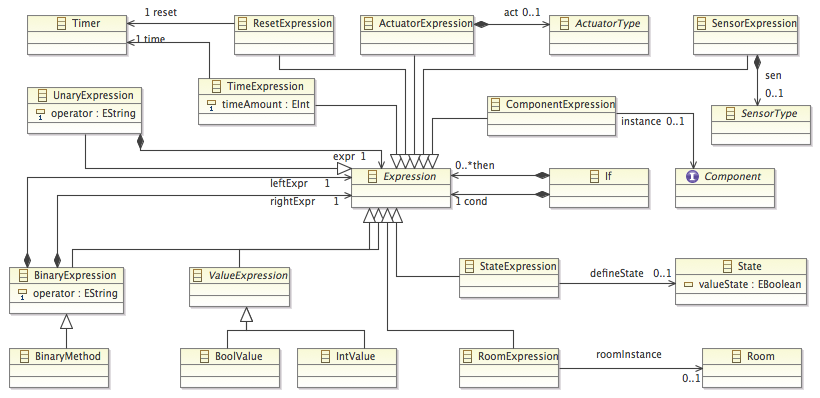
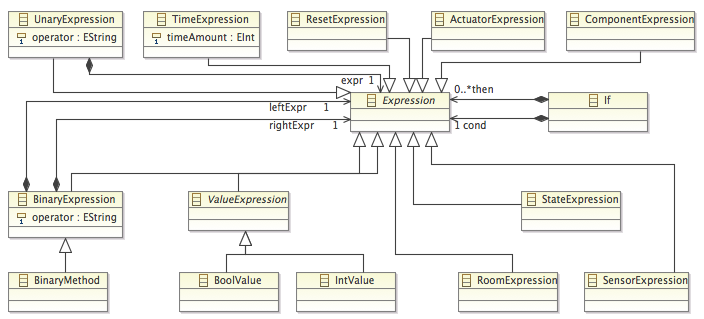
Section 3, 4 & 5
ecore diagram updated: policy definition
dsl updtated: policy definition

diff --git a/documents/sections/designAndDevelopment.tex b/documents/sections/designAndDevelopment.tex
@@ -1,9 +1,13 @@
-By using Eclipse~\cite{eclipse}, EMF~\cite{emf} and Xtext~\cite{xtext} we built a domain specific language that is rich enough to express the policies discovered in the analysis. We developed a grammar that is based on our programming experience, and believed to have a consistent forthcoming syntax and conceptual constructs. Finally, we used our Policy Engine DSL editor to write the policies.
+In this section, we focus on 2 points; Our meat-model being of considerable size, explaining it as separate core packages, gives a better understanding and overview of the complete model. Secondly, we explain the key concepts behind the definition of policies.
+ 
+By using Eclipse~\cite{eclipse}, EMF~\cite{emf} and Xtext~\cite{xtext} we built a domain specific language that is rich enough to express the policies discovered in the analysis. We developed a grammar that is based on our programming experience, and believed to have a consistent forthcoming syntax and conceptual constructs. Finally, we used our Policy Engine DSL editor to specify buildings and write the policies. The full DSL implementation based on two of the interviews, one for Br\"{u}el \& Kj\ae r (see Figure \nameref{app:bogk}) and one for K\o benhavns Tekniske Skole (see Figure \nameref{app:kts}). Please note that they are fully working implementations running in Eclipse.
 
-Our model is of considerable size, and consists of the following core packages, differentiated in separate Ecore Diagrams (can be viewed in full in \nameref{sec:appendix-a}); 9 sensors classes and 6 actuators classes (see Figure \ref{fig:ecore-sensors-actuators}), 6 expression language classes (see \ref{fig:ecore-expression-language}), 5 building definition classes (see Figure \ref{fig:ecore-building-definition}) and 10 policy definition classes (see Figure \ref{fig:ecore-policy-definition}).
+\subsection{Meta-Models}
 
-We have included the full DSL implementation based on two of the interviews, one for Br\"{u}el \& Kj\ae r (see  \nameref{app:bogk}) and one for K\o benhavns Tekniske Skole (see \nameref{app:kts}). Please note that they are fully working implementations running in Eclipse..
+The following core packages, differentiated in separate Ecore Diagrams (can be viewed in full in \nameref{app:a-metamodel}); 9 sensors classes and 6 actuators classes (see Figure \ref{fig:ecore-sensors-actuators}), 14 expression language classes (see Figure \ref{fig:ecore-expression-language}), 4 building definition classes (see Figure \ref{fig:ecore-building-definition}) and 10 policy definition classes (see Figure \ref{fig:ecore-policy-definition}).
 
+\subsubsection{Sensors and Actuators}
+in our metamodel and used in our DSL are from the combined analysis of the interview mentioned in the section above. Sensor and Actuator class inherit from NamedElement, giving declared elements a name than can be later referenced in the expression language.
 \begin{figure}[h]
 	\centering
     \includegraphics[scale=0.37]{ecore-sensors-actuators.png} 
@@ -11,8 +15,8 @@ We have included the full DSL implementation based on two of the interviews, one
 	\label{fig:ecore-sensors-actuators}
 \end{figure}
 
-\subsection{Expression language}
-After the analysis of the interviews we concluded that the needed expression language needed not to be very advanced. We need boolean variables (\textit{states}), and if-statements with two different types of conditions; the normal if-statement and the one that operates on a timer (see Figure \ref{fig:dsl-conditionalexpression}). 
+\subsubsection{Expression language}
+After the analysis of the interviews we concluded that the needed expression language did not need to be very advanced. We needed boolean variables (\textit{states}) and if-statements with two different types of conditions; the normal if-statement, which operates on sensor types and state instances. The other one operates on a timer (see Figure \ref{fig:dsl-conditionalexpression}). In the body of the if-statement, we can use expression to reset timers, and set actuators using instances in specific rooms as shown in the DSL example \ref{fig:dsl-policy-definition}
 
 \begin{figure}[h]
   \centering
@@ -21,46 +25,33 @@ After the analysis of the interviews we concluded that the needed expression lan
 	\label{fig:ecore-expression-language}
 \end{figure}
 
-\pagebreak
-\subsection{Building definition}
-In order to specify the building(s) with all their floors and rooms, the core classes has been included in Figure ref{fig:ecore-building-definition}. They all inherit from NamedElement, making it possible to give them a name than can be used for later referencing.
-\begin{figure}
+\subsubsection{Building definition}
+In order to specify the building(s) with all their floors and rooms, the core classes has been included in Figure \ref{fig:ecore-building-definition}. They all inherit from NamedElement, making it possible to give them a name than can be used for later referencing.
+\begin{figure}[h]
   \centering \includegraphics[scale=0.4]{ecore-building-definition.png}  
 	\caption{The metamodel related to the \textit{building definition}. The inherited class NamedElement has been omitted.}
 	\label{fig:ecore-building-definition}
 \end{figure}
-
-\subsection{Policy definition}
-
-\begin{figure}
+\subsubsection{Policy definition}
+In the policy definition metamodel below, to define a policy, we make use of actuator and sensor types, and use room instances. The implementation of the policy is enhanced by the use of statements; if, state and timer. the if-statement uses the expression language to define behaviour. These policy can also be run following a defined schedule as shown in the dsl example of room-type in figure \ref{fig:room-types} 
+\begin{figure}[h]
   \centering
-    \includegraphics[scale=0.3]{ecore-policy-definition.png}	
-	\caption{The metamodel related to the \textit{policy definition}. The inherited class NamedElement has been omitted.}
+    \includegraphics[width=10cm]{ecore-policy-definition.png}	
+	\caption{The metamodel related to the \textit{policy definition}.}
 	\label{fig:ecore-policy-definition}
 \end{figure}
 
-\pagebreak
-There are several extra classes, consisting of subsystems that can be implemented in future work.
+There are several extra classes, consisting of subsystems that can be implemented in section \ref{subsec:futureWork}.
 
-During the analysis of the interviews, different meta-constructs were defined. It was evident that the below three key concepts were needed in order to tailor the policies for the interviewees using the DSL;
+\subsection{Key Concepts}
 
+During the analysis of the interviews, different meta-constructs were defined. It was evident that the three key concepts below were needed in order to tailor the policies for the interviewees using the DSL;
+
+\subsubsection{Time}\label{subsec:time}
+Time has to be an integral part of the DSL, and not just related with the internal policy logic. Several interviewees mention concepts like weekdays, weekends, normal working hours, holidays, night, day, morning etc., which clearly shows that Time is necessary. We have extrapolated the need for Time in two different cases;
 \begin{enumerate}
-	\item \textit{Time}. Time has to be an integral part of the DSL, and not just related with the internal policy logic. Several interviewees mention concepts like weekdays, weekends, normal working hours, holidays, night, day, morning etc.
-	
-	\item \textit{Building specification}. It should be possible to define the buildings, their floors, number and types of rooms etc.
-
-	\item \textit{Policy}. The actual behavior, ie. adjusting actuators based on sensor input, needs to be defined. 
-\end{enumerate}
-
-\subsection{Time}\label{subsec:time}
-The analysis of the interviews clearly shows that Time is necessary. We have extrapolated the need for Time in two different cases;
-	\begin{enumerate}
-		\item Time conditional expression - an expression used for determining the flow of a behavior.
-		\item Schedules - types that define a timespan which can later be attached to a specific behavior.
-	\end{enumerate}
-
-\subsubsection{Time conditional expression}\label{subsubsec:conditionalexpression}
-A \textit{time conditional expression} is an `if' statement that can react based on a built-in timer function. 
+	\item Time conditional expression\label{subsubsec:conditionalexpression}
+A \textit{time conditional expression} is an expression used for determining the flow of a behavior. It is an `if' statement that can react based on a built-in timer function. 
 
 \begin{figure}
   \centering
@@ -69,9 +60,8 @@ A \textit{time conditional expression} is an `if' statement that can react based
 	\label{fig:dsl-conditionalexpression}
 \end{figure}
 
-\newpage
-\subsubsection{Schedules}\label{subsubsec:schedules}
-\textit{Schedules} are predefined types representing a timespan where action or no-action takes place. Note that by defining several The \textit{schedules}, it is possible both to make schedules than can overlap in time, but also policies that takes over when other policies reach their end. 
+\item Schedules\label{subsubsec:schedules}
+\textit{Schedules} are predefined types representing a timespan, which can later be attached to a specific behavior where action or no-action takes place. Note that by defining several The \textit{schedules}, it is possible both to make schedules than can overlap in time, but also policies that takes over when other policies reach their end. 
 
 \begin{figure}
   \centering
@@ -79,8 +69,8 @@ A \textit{time conditional expression} is an `if' statement that can react based
   \caption{An example of a \textit{schedule} defined for a interviewee.}
   \label{fig:dsl-schedules}
 \end{figure}
-
-\subsection{Building specification}\label{subsec:buildingspecification}
+\end{enumerate}
+\subsubsection{Building specification}\label{subsec:buildingspecification}
 Rooms and room types are part of the complete building specification, with terminology rooted in concepts revolving around buildings, ie. rooms, room types, floors, different sensors and actuators. \\
 
 To avoid confusing the DSL user with an overwhelming amount of declarations of rooms, sensors and actuators - we have designed \textit{room types} that declare static use of sensors and actuators. Independent rooms that stick out from the crown can still be defined on an instance level.
@@ -92,7 +82,7 @@ To avoid confusing the DSL user with an overwhelming amount of declarations of r
 	\label{fig:room-types}
 \end{figure}
 
-Building specification as in the example below, helps us map out the actual buildings as they are in our DSL. With this we are able to accurately define exact locations for sensors and actuators as well as implement policies for rooms in specific locations. 
+Building specification as in the example above, helps us map out the actual buildings as they are in our DSL. With this we are able to accurately define exact locations for sensors and actuators as well as implement policies for rooms in specific locations. 
 
 \begin{figure}
   \centering
@@ -101,12 +91,12 @@ Building specification as in the example below, helps us map out the actual buil
   \label{fig:dsl-building-definition}
 \end{figure}
 
-\subsection{Policy}\label{subsec:policies}
-Policies define the actual behavior, ie. adjustment of actuators, based on sensor input. 
+\subsubsection{Policy}\label{subsec:policies}
+Policies define the actual behavior, ie. adjustment of actuators, based on sensor input. In the dsl example below, when the humiditySensor value drops under 50, the humidityAlarm state is set to true and every 15 seconds of the timer, the audioAlarmActuator sets off the alarm in the janitorOffice.
 
-\begin{figure}
+\begin{figure}[h]
   \centering
     \includegraphics[scale=.5]{dsl-policy-definition.png} 
-	\caption{An example of \textit{policy} using a single sensor type and a single actuator type.}
+	\caption{An example of \textit{policy} using a single sensor type, a single actuator type and a room instance.}
 	\label{fig:dsl-policy-definition}
 \end{figure}

diff --git a/documents/sections/interviewsAndAnalysis.tex b/documents/sections/interviewsAndAnalysis.tex
@@ -1,4 +1,4 @@
-Since building control resides with Facility Management we found it pertinent to interview company employees working on or close to that field. We conducted open-ended interviews with these companies and documented their content mostly by handwritten notes or in some rare cases by audio record. The main purpose of the interviews was to document;
+Since building control resides with Facility Management we found it pertinent to interview company employees working in or close to that field. We conducted open-ended interviews with these companies and documented their content mostly by handwritten notes or in some rare cases by audio record. The main purpose of the interviews was to document;
 
 \begin{enumerate}
 	\item existing governing rules, implicit or explicit.
@@ -6,10 +6,75 @@ Since building control resides with Facility Management we found it pertinent to
 	\item requests for new governing rules regardless of their practicality or feasibility.
 \end{enumerate}
 
-In order to gather enough material to conceptualize a proper DSL, we interviewed people from the following companies; Br\"{u}el \& Kj\ae r, Bygningsstyrelsen, IT-University of Copenhagen, K\o benhavns Tekniske Skole, ST Aerospace - Denmark and UNI-C.
+In order to gather enough material to conceptualize a proper DSL, we interviewed people from the following companies;
 
-While conducting the interviews, we pointed out that practicality or feasibility should not influence the requests for new governing rules. This proved hard for the interviewees. Some interviews were therefore conducted over several sessions, giving the interviewees time to think creatively. 
+\subsubsection{Br\"{u}el \& Kj\ae r A/S} supplies integrated solutions for the measurement and analysis of sound and vibration with facilities located in N\ae rum, Denmark. These facilities total up to an area of approximately 20,000$m^2$ and are divided into 2 building with 2 floors each; 
+\begin{itemize}
+	\item Main building is used for office space, calibration of new products, research and development, "university" which is used for seminars and conferences, cafeteria and storage space.
+	\item Repair building is only used for repairs and testing of products.
+\end{itemize}	
+These facilities are daily used by 500 employees for various functionality and only 5 are employed in the Facility Management Department to maintain the buildings.
+\begin{description}
+	\item[Interviewee] Building Maintanance Manager.
+	\item[Duration] 52 minutes
+	\item[Interview] Audio Recording
+\end{description}
 
-We only used natural language (English and Danish) to give examples of existing building policies and facilitate the discovery of new, relevant ones. This was done to avoid the limitations of technology, like the expressiveness of a programming language and to make communication less ridgid. 
+\subsubsection{Bygningsstyrelsen} has responsibility for creating modern, functional and cost effective framework for some of the countries important state institutions (\textit{f.ex - universities and ministries}) and for parts of the legislation in the field.
 
-Finally, this project is based on the requirements defined by the professionals working in Facility Management, and used their stated policies as requirements to be implemented as grammar-passed code using the developed DSL.
+\begin{description}
+	\item[Interviewee] Building Maintanance Manager.
+	\item[Duration] 1 hour
+	\item[Interview] Transcribed
+\end{description}
+
+\subsubsection{IT-University of Copenhagen} is an educational institution based in copenhagen. The facility is one main campus with an approxima area of 19,000$m^2$. The building has a basement and 5 floors.
+\begin{itemize}
+	\item The basement is used for bicycle parking and gym facilities.
+	\item the ground consists of an atrium, canteen, lecture rooms and offices.
+	\item like the ground floor, the rest of the floors consists of lecture rooms and offices.
+\end{itemize}
+\begin{description}
+	\item[Interviewee] Building Maintanance Manager.
+	\item[Duration] 1 hour
+	\item[Interview] Transcribed
+\end{description}
+
+\subsubsection{K\o benhavns Tekniske Skole} is an educational institution based in copenhagen with colleges in various parts of the city.
+\begin{description}
+	\item[Interviewee] Building Maintanance Manager.
+	\item[Duration] 1 hour
+	\item[Interview] Transcribed
+\end{description}
+
+\subsubsection{ST Aerospace - Denmark} is an independent global company, offering third party aviation Maintenance, Repair and Overhaul with facilities in copenhagen. 
+\begin{description}
+	\item[Interviewee] Building Maintanance Manager.
+	\item[Duration] 1 hour
+	\item[Interview] Transcribed
+\end{description}
+
+\subsubsection{UNI-C} is an agency under The Danish Ministry of Children and Education. The promote digital development within the area of children and learning. Our primary focus is on increasing the use of IT in education, and to support an effective operation of institutions by using IT.
+  
+\begin{description}
+	\item[Interviewee] Building Maintanance Manager.
+	\item[Duration] 1 hour
+	\item[Interview] Transcribed
+\end{description}
+
+\subsubsection{Questions} were formulated by the team to be used as a base for these interviews and aimed at gathering relevant information for our project. Some of the questions used in the conducted interviews are as below:
+\begin{enumerate}
+	\item How many buildings, build up of each building and the total floor area?
+	\item What is the facility used for? 
+	\item How many employees make use of the facilty?
+	\item How many work in Facility Management Department?
+	\item What tools, if any, do you make use of currently?
+	\item What Policies are in place today?
+	\item What Policies would you like to have implemented?
+	\item What sensors and actuators are in use today and which others do you find relevant and necessary to have?
+	\item What other implementations would you consider to make managing these facilities easier?
+\end{enumerate}
+
+While conducting the interviews, we pointed out that practicality or feasibility should not influence the requests for new governing rules. This proved hard for the interviewees. Some interviews were therefore conducted over several sessions, giving the interviewees time to think creatively. We only used natural language (English and Danish) to give examples of existing building policies and facilitate the discovery of new, relevant ones. This was done to avoid the limitations of technology, like the expressiveness of a programming language and to make communication less ridgid.\\ 
+
+Finally, this project is solely based on the requirements defined by the professionals working in Facility Management, and uses their stated policies as requirements to be implemented grammar-passed to code using the developed DSL. An example, in Br\"{u}el \& Kj\ae r, the Facility Manager requested that in the case a humidity sensors in the production area drop below a certain value, the alarm in the janitos office should go off. This is implemented and can be seen in Figure \ref{fig:dsl-policy-definition}. In Section \ref{sec:designAndDevelopment}, we discuss more on how these interviews contributed in the design of our DSL in more details.

diff --git a/documents/sections/evaluation.tex b/documents/sections/evaluation.tex
@@ -1,4 +1,13 @@
-The requirements received from Br\"{u}el \& Kj\ae r were implemented in our DSL and can be found in \nameref{sec:dsl-bruel}. One of the requirements from the interview (\textit{all sensor and actuator data stored in a repository for use in a visual display of data in the FM office}) was not implemented in our DSL because we decided to narrow the scope of the project. After evaluating these requirements, we realized that some of the sensors and actuators needed to satisfy the implementation are not defined in our metamodel. While these problems could be easily fixed by simply adding some new classes in the metamodel, we evaluated this area as one that our DSL can be further improved as discussed in \nameref{subsec:def-sensor-actuator-types}.
+The ideal methodology would have been to have these organizations evaluate our DSL but due to time constraints on our project, this was not possible and the evaluation of our DSL was mainly based on the modelling of buildings and policies identified in the interviews. The evaluation is mainly focused on 2 organizations; Br\"{u}el \& Kj\ae r and K\o benhavns Tekniske Skole. The reason for this being the size of the organization, diversity of building usage and they have the most interesting requirements to be modelled. 
 
-The implementation of the requirements from K\o benhavns Tekniske Skole can be found in \nameref{sec:dsl-kts} and just like in the evaluation in \nameref{subsec:bruel}, we faced the same lack of sensors and actuators. This seems to be a recurring issue in our language but nonetheless it provides a nice opportunity to improve our language. It is further discussed in \nameref{subsec:def-sensor-actuator-types}. 
-Another aspect of our language that can be refined is the ability to define how each policy should be used as discussed in \nameref{subsec:during}. 
+Our DSL can capture the most important parts of the
+organization's buildings and can define most of the policies identified. By using this methodoly, we were able to evaluate our dsl in 2 iterations; The first outcome of the evaluation offered both positive and negative outcome which are described in more details below.\\
+
+In Br\"{u}el \& Kj\ae r, our DSL can capture all parts of the organization's buildings and most of the policies identified in the interview. One of the requirements was not implemented because we had to narrow the scope of the project due to time constraints. (\textit{"This involved storing all the sensor data in a database and to be further used by a web-based system to visualize the data in the janitors office and mobile devices"}).\\
+In \nameref{app:bogk}, our DSL manages to captures the building specification as it is; 2 buildings, each with 2 floors and each floor with some rooms. we were able to predefine rooms of certain types and extending some of the rooms defined in the building model to extend these types. The DSL also captures most of the policies identified; Schedules and policies are defined. These policies make use of the actuator and sensor types, makes use of the predefined rooms and in the implementation of the section, we use the expression language to check sensor values and based on that we set actuator types or specific instances in specific rooms to a desired behaviour. \\
+
+In  \nameref{app:kts}, K\o benhavns Tekniske Skole, just as in the case above, our DSL captured most of the policies and predefined room types as in the interview. In this evaluation we focus more on modelling policies, use of states and timers and room-types.\\ 
+
+After evaluating policies and building specification of both organizations, we realized that some of the sensors and actuators needed to satisfy the implementation were not defined in our metamodel. While these problems could be easily fixed by simply adding some new classes in the metamodel, we evaluated this area as one that our DSL can be further improved as discussed in Section \ref{subsec:def-sensor-actuator-types}. Another negative discovered in the evaluation of K\o benhavns Tekniske Skole is the posibility to specify a schedule when each policy should be run individually as discussed in Section \ref{subsec:during}. The final prolem in our DSL was our expression language. We needed to implement negation of expressions, better handle recursive expressions and implement the use of statements in our DSL.\\
+
+The positives of the first iteration being, the building specification was spot on and the buildings could be modelled precisely and policies could be partly specified. We were also able to find weaknesses, which could be fixed in time and areas that can be further developed in Section \ref{sec:futureWork}. The second evaluation, saw the same policies modelled and the outcome being an error free and accurate implementation of the building and policies using our DSL. 
